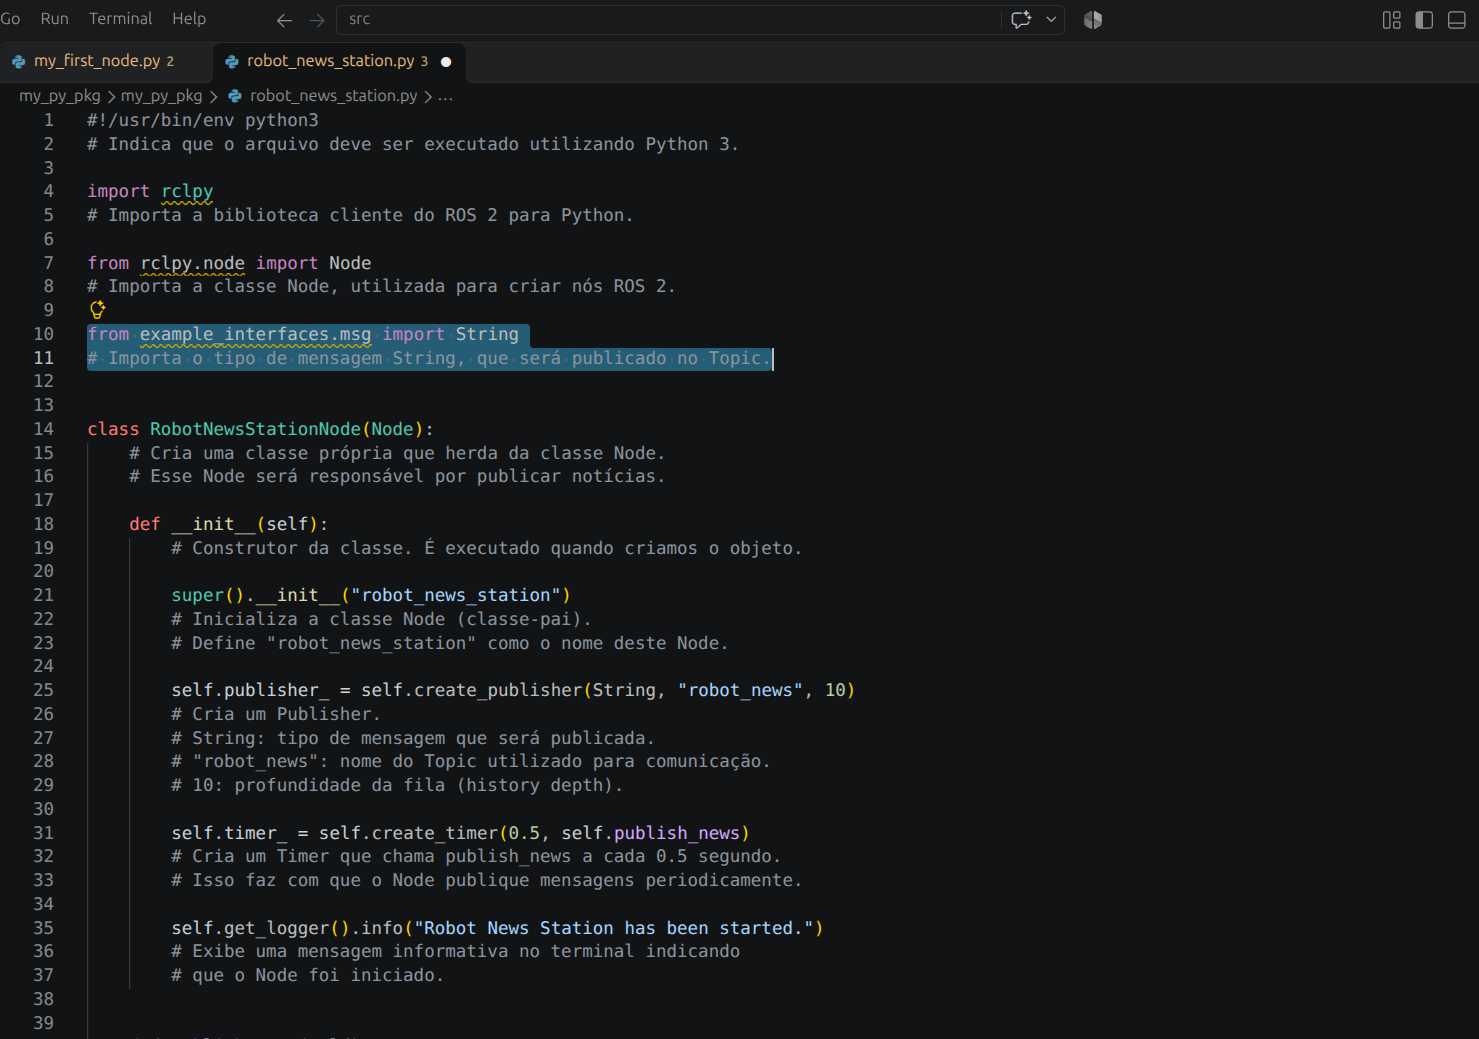
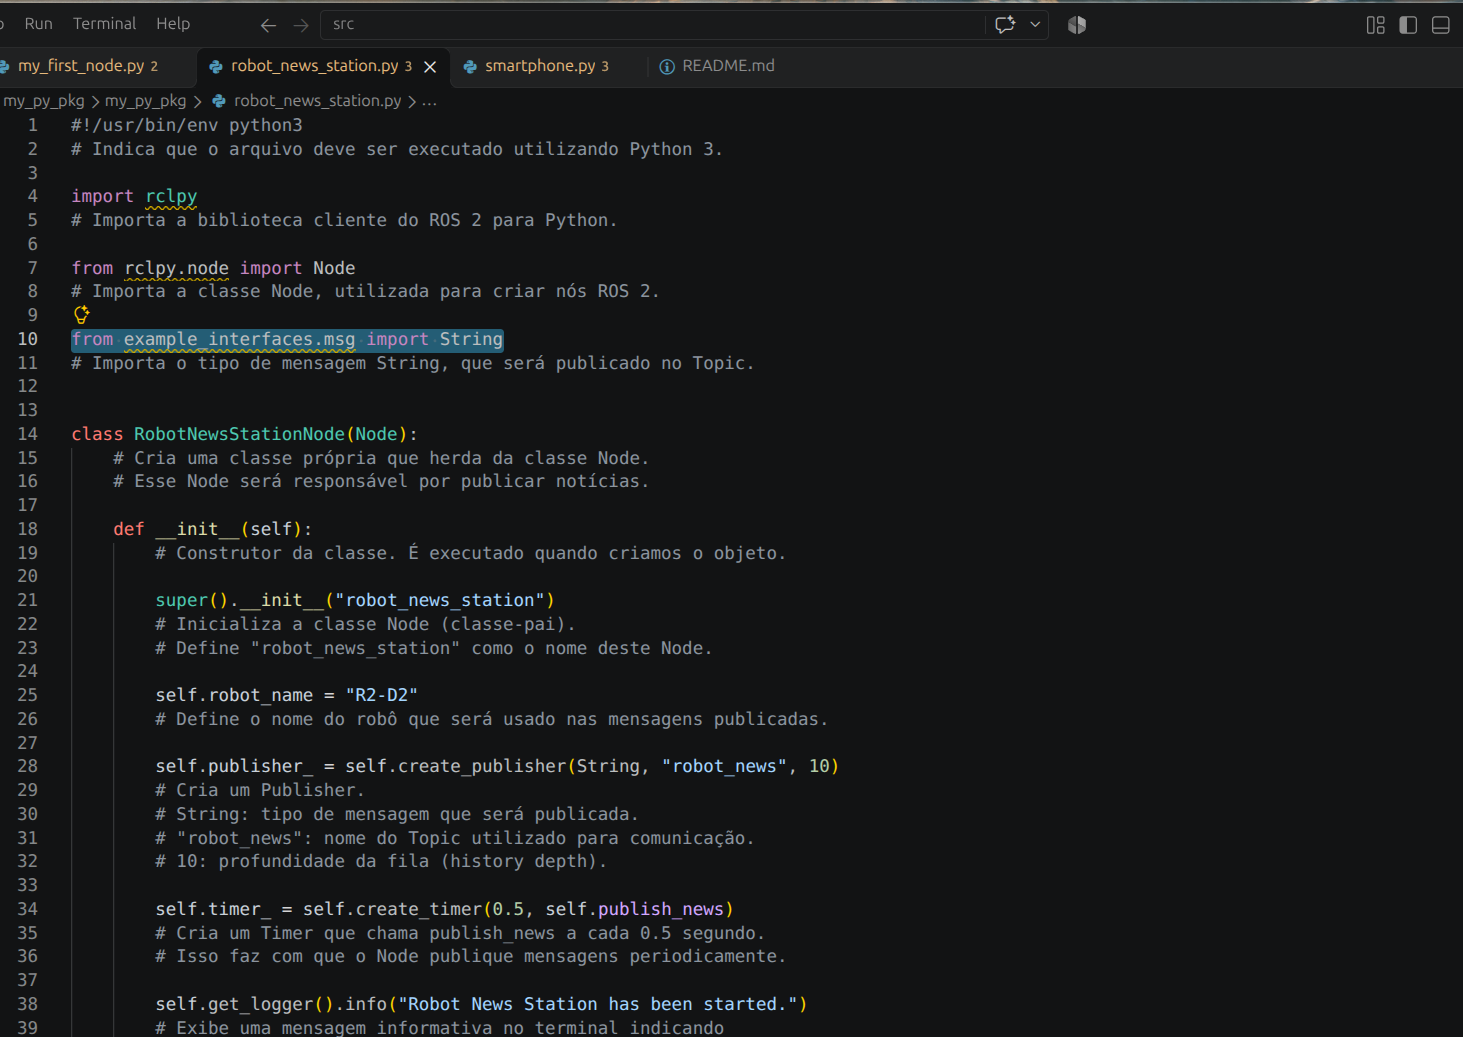
feat: README corrigida

diff --git a/README.md b/README.md
@@ -49,7 +49,7 @@ A implementação utiliza a classe `RobotNewsStationNode`, que herda de `Node`. 
 | Timer | `0,5 segundo` (aproximadamente 2 Hz) |
 | Método de publicação | `publish_news()` |
 
-O Timer agenda o método `publish_news()` a cada 0,5 segundo. A cada chamada, uma mensagem `String` é criada, seu campo `data` recebe o texto `Hello` e a mensagem é publicada no Topic `robot_news`.
+O Timer agenda o método `publish_news()` a cada 0,5 segundo. A cada chamada, uma mensagem `String` é criada, seu campo `data` recebe o texto `Hi, this is R2-D2 bringing you the latest news!` e a mensagem é publicada no Topic `robot_news`.
 
 Como o Publisher utiliza o tipo `String` de `example_interfaces`, essa dependência foi declarada no `package.xml`.
 
